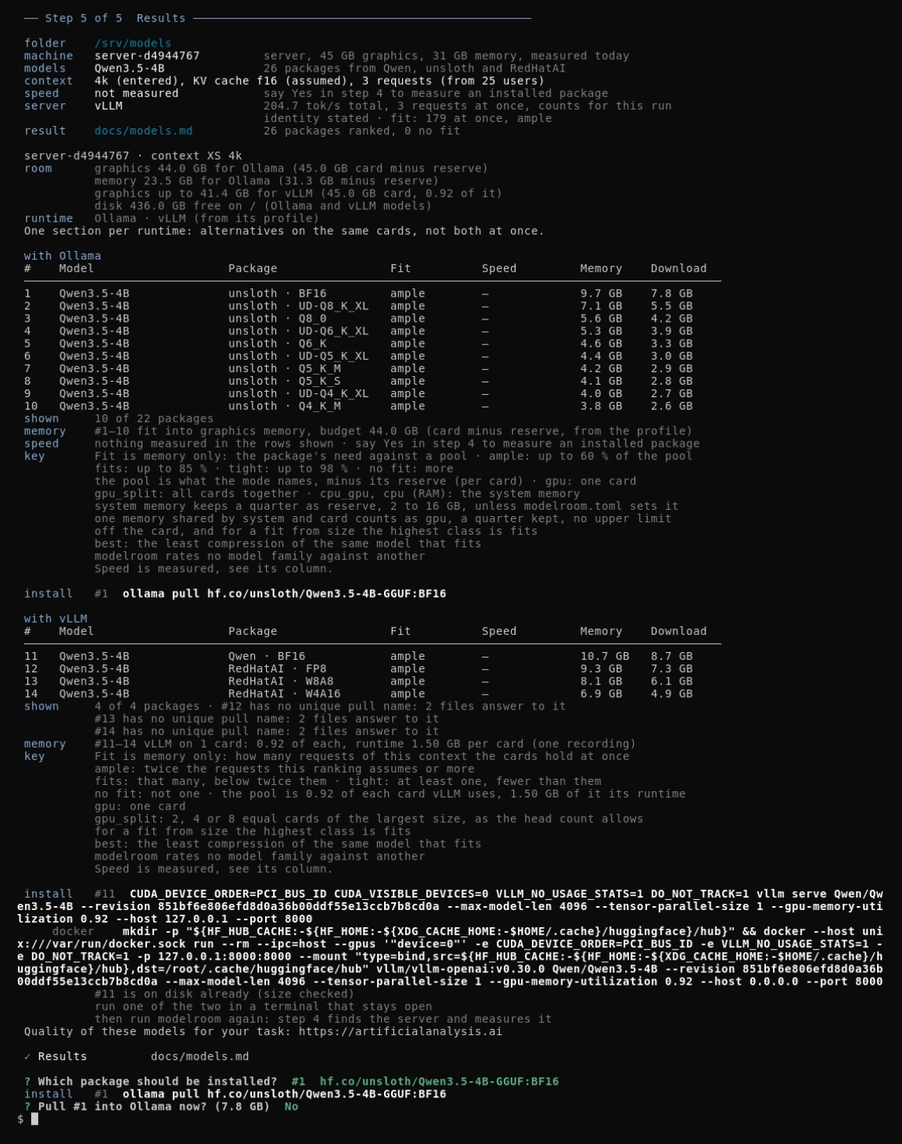
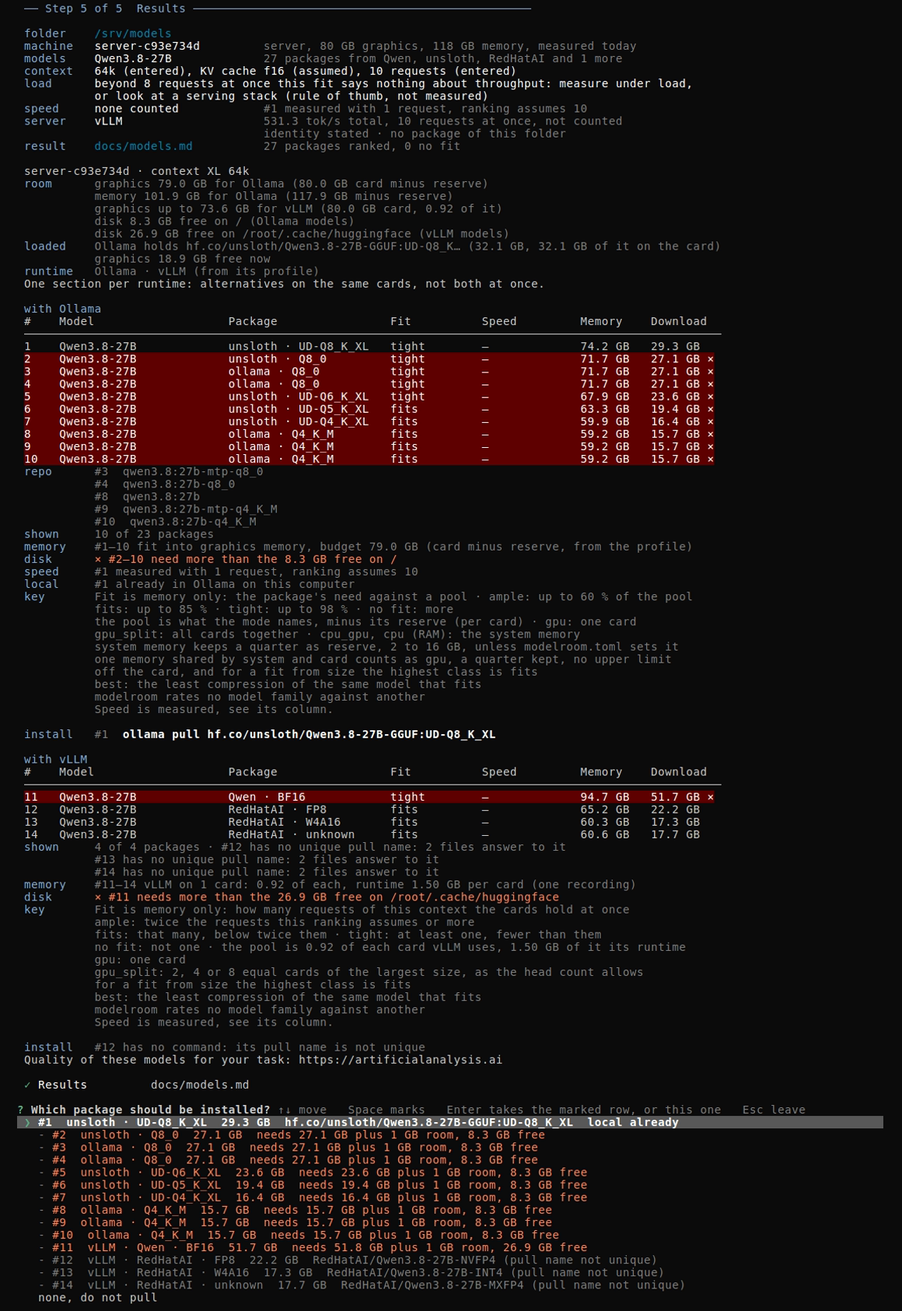
docs: README pictures taken again on 1.2.0, known limits named, no 1.2.1 promised
The pictures of README.md come from a guided run of 1.2.0 on a rented A100 80 GB instance
(Ollama 0.40.4, vLLM 0.31.0 serving RedHatAI/Qwen3.8-27B-INT4 at 64k): real pull of 29.3 GB,
both measurements (Ollama 37.6 tok/s, vLLM 531.3 tok/s total, shown and not counted), red
over-disk rows, a machine entered by hand, and Kolibri-1 with no fit. 22 files under
docs/screenshots/, 12 of them new (6-people, 6-measure, 8b-pulled, 11-kolibri and shorter
cuts of the long screens); links point to v1.2.0.

CHANGELOG 1.2.0 gets a section Known limits: the shared budget of 150 Hub requests that a broad
search word spends in the search, and a vLLM number that is shown but not counted where the
snapshot holds two tensor packages of the served repository. Both have a way around them;
neither is scheduled. README names them as limits, and What comes next keeps two points:
unified memory measured, and the catalog's successors as described on main.

Codex review r1-r4 (gpt-6-astra), r4 APPROVED; pytest -k readme/language/document: 152 passed.

Changed region(s): [[0.0, 0.0, 0.9931, 1.0]]

diff --git a/README.md b/README.md
@@ -116,32 +116,40 @@ column is what the profile says: `server (entered)` means the run supplied the c
 | a rented instance at Seeweb (Frosinone) | server (entered) | 1 x NVIDIA L40S, 44.99 GiB | 31.27 GiB | 2026-10-08 | `SELFTEST: OK` | 122.8 tok/s |
 | a rented instance at Exoscale (Frankfurt) | server (entered) | 1 x NVIDIA RTX PRO 6000 Blackwell Server Edition, 95.59 GiB | 117.90 GiB | 2026-10-12 | `SELFTEST: OK` | 216.6 tok/s |
 | a rented instance at Exoscale (Frankfurt) | server (entered) | 4 x NVIDIA RTX PRO 6000 Blackwell Server Edition, 95.59 GiB each | 472.14 GiB | 2026-10-13 | `SELFTEST: OK` | 207.2 tok/s |
+| a rented instance at Verda (Helsinki) | server (entered) | 1 x NVIDIA A100-SXM4-80GB, 80.00 GiB | 117.89 GiB | 2026-10-15 | `SELFTEST: OK` | 136.9 tok/s |
 
 ## The guided run
 
-The pictures come from three runs on a rented server at Seeweb with one NVIDIA L40S graphics card
-(44.99 GiB) and 31 GiB of memory. The folder is `/srv/models`, chosen for the pictures; any
-folder does.
+The pictures come from runs on 2026-10-15 on a rented server at Verda with one NVIDIA
+A100-SXM4-80GB graphics card (80.00 GiB) and 118 GiB of memory. The folder is `/srv/models`,
+chosen for the pictures; any folder does.
 
-Ollama 0.40.1 runs there without a package of the model the run looks for. A vLLM server serves
-`Qwen/Qwen3.5-4B` at context 4096. The pictures were taken on Linux; for Windows and macOS, see
-"vLLM".
+Ollama 0.40.4 runs there. A vLLM server serves `RedHatAI/Qwen3.8-27B-INT4` at context 65536. The
+pictures were taken on Linux; for Windows and macOS, see "vLLM".
 
-The first picture is from the initial run in a fresh folder. Pictures 2 to 8 are from the second
-run. The last picture shows a separate run with an empty search word in the same folder. Your
-numbers, and so the fit of every package, will differ.
+The pictures come from several runs:
+
+- the start screen and the pull at the end of step 5 are from the first run in a fresh folder,
+  with the search word `qwen 3.8`. That run pulled one package into Ollama;
+- the three pictures of step 2 are from a run of their own in another fresh folder, with the
+  broad word `qwen`;
+- the other pictures of steps 1 to 5 are from the second run in `/srv/models`, again with
+  `qwen 3.8`. It measured the pulled package and the vLLM server;
+- the pictures under "Other ways to run" are from separate runs on the same machine.
+
+Your numbers, and so the fit of every package, will differ.
 
 ### Start
 
-![The start screen: the mark, four facts about this folder, the daemon, the vLLM server and this machine, and the first question](https://raw.githubusercontent.com/jm-vis/modelroom/v0.2.0/docs/screenshots/1-start.png)
+![The start screen: the mark, four facts (no folder chosen yet, Ollama 0.40.4 with 0 models, the vLLM server at context 65536 and this machine, not measured yet), and the first question](https://raw.githubusercontent.com/jm-vis/modelroom/v1.2.0/docs/screenshots/1-start.png)
 
 Start shows what the run knows before it asks anything.
 
 **What you see.** Four facts before the first question:
 
 - the **folder**: none chosen yet;
-- the local **daemon**: Ollama 0.40.1 is reachable, with one model;
-- the vLLM **server**: context 4096, and the model it states it serves;
+- the local **daemon**: Ollama 0.40.4 is reachable, with no model yet;
+- the vLLM **server**: context 65536, and the model it states it serves;
 - this **machine**: its name, and that no measurement is stored in this folder yet.
 
 A running LM Studio server adds a row of its own under them, here for one loaded instance
@@ -150,7 +158,7 @@ the folder the first one chose and was not asked again. The first question of st
 
 ### Step 1, Configuration
 
-![Step 1: which machines the result covers, with this machine's stored measurement as the first row](https://raw.githubusercontent.com/jm-vis/modelroom/v0.2.0/docs/screenshots/2-machines.png)
+![Step 1: which machines the result covers, with this machine's stored measurement of 2026-10-15 as the first row, nothing marked](https://raw.githubusercontent.com/jm-vis/modelroom/v1.2.0/docs/screenshots/2-machines.png)
 
 Step 1 decides where the results live and which machines the result covers.
 
@@ -167,7 +175,7 @@ covers exactly the machines you marked in this run. The list has these rows:
 
 | Row | What it does |
 |---|---|
-| **this machine**, with its profile as the first row, `this machine (server-d4944767, as measured 2026-10-08)` | Where this computer was measured in this folder before. The name is the one the result shows for it. Enter alone keeps the profile and measures nothing. |
+| **this machine**, with its profile as the first row, `this machine (server-c93e734d, as measured 2026-10-15)` | Where this computer was measured in this folder before. The name is the one the result shows for it. Enter alone keeps the profile and measures nothing. |
 | **this machine** with `measure now` or `measure again` | Measures this computer right here, once the question is answered. `measure again` is the row under the profile. |
 | a **profile file**, `import a profile file` | Takes in a profile measured on another computer. |
 | a machine **entered by hand** | Opens the questions listed below. |
@@ -202,12 +210,23 @@ says `set by environment`. The shared folder is read and written like any local 
 operating system mounted there, network shares and cloud sync folders included.
 
 **What you see.** In the picture the first row reuses the profile measured in the first run, and
-the start screen sums it up (`server, one graphics card, 45 GB, 31 GB memory`). The gray line
+the start screen sums it up (`server, one graphics card, 80 GB, 118 GB memory`). The gray line
 above the question says where another computer's profile comes in.
 
 A machine entered by hand has a place in the result of its own, next to the machines you
 measured. It says `(entered)` wherever its name stands. Every number of such a machine is
 computed, none measured.
+
+![A run for a machine entered by hand, a server with 32 GiB of memory and a graphics card of 8 GiB: the answers of steps 1 to 4 and the ranking of step 5 with fits (RAM) and tight (RAM)](https://raw.githubusercontent.com/jm-vis/modelroom/v1.2.0/docs/screenshots/10-no-fit-short.png)
+
+In the picture a run in a folder of its own, `/srv/models-nofit`, covers only a machine entered by
+hand: a server with 32 GiB of memory and a graphics card of 8 GiB, named `server-a2b73740
+(entered)`. With `qwen 3.8 27b`, 1 at once and L (32k), step 5 ranks 14 packages, and 9 have no
+fit. The rows that fit need system memory (`tight (RAM)`, `fits (RAM)`; budget 24.0 GB, the
+memory minus its reserve), and the speed stays `–`, since such a machine is never measured. The
+install line names the computer: `#1 on server-a2b73740 (entered)  ollama pull
+hf.co/unsloth/Qwen3.8-27B-GGUF:UD-Q4_K_XL`. The whole screen:
+[10-no-fit.png](https://raw.githubusercontent.com/jm-vis/modelroom/v1.2.0/docs/screenshots/10-no-fit.png).
 
 **What is written.** The folder you chose holds `modelroom.toml`, `docs` and `state`. A machine
 that is measured, imported or entered gets its profile in `state/hardware/`.
@@ -320,9 +339,9 @@ folders").
 
 Step 2 decides which models and packages the run looks at.
 
-![Step 2: the search word](https://raw.githubusercontent.com/jm-vis/modelroom/v0.2.0/docs/screenshots/3-search.png)
+![Step 2: the search word, here qwen, under the answers of step 1 and the graphics card the measurement found](https://raw.githubusercontent.com/jm-vis/modelroom/v1.2.0/docs/screenshots/3-search.png)
 
-**What you choose.** What you are looking for; in the picture `qwen 3.5 4b`. There are four ways
+**What you choose.** What you are looking for; in the picture the broad word `qwen`. There are four ways
 to answer, and none of them has to be the exact spelling of anything:
 
 | What you type | What happens |
@@ -335,7 +354,7 @@ to answer, and none of them has to be the exact spelling of anything:
 **What you see.** A word close to something the catalog knows that finds nothing to pick (`qwn`)
 ends in a short list of what you may have meant. Picking one searches again.
 
-![Step 2: the owner filter, yes or no](https://raw.githubusercontent.com/jm-vis/modelroom/v0.2.0/docs/screenshots/4-filter.png)
+![Step 2: the owner filter, yes or no, with Yes under the pointer](https://raw.githubusercontent.com/jm-vis/modelroom/v1.2.0/docs/screenshots/4-filter.png)
 
 **What you choose.** The owner filter, yes or no. **Yes** (the default) keeps the list to the
 publisher of what you searched for and the packagers configured for the folder.
@@ -350,7 +369,9 @@ owns them.
 **What you see.** With **No**, a model of a publisher the catalog does not know can be picked as
 well (see "Publishers the search resolves").
 
-![Step 2: the list of models, one row per model that can be picked](https://raw.githubusercontent.com/jm-vis/modelroom/v0.2.0/docs/screenshots/5-models.png)
+![Step 2: the list of models for qwen, 200 repositories and 74 models to pick, with Qwen3.8-27B marked in the first row; the first 20 rows](https://raw.githubusercontent.com/jm-vis/modelroom/v1.2.0/docs/screenshots/5-models-short.png)
+
+The whole screen, with all 74 rows: [5-models.png](https://raw.githubusercontent.com/jm-vis/modelroom/v1.2.0/docs/screenshots/5-models.png).
 
 **What you choose.** One or more models from the list, one row per model that can really be
 picked. Mark the rows you want, or take the row under the pointer.
@@ -375,9 +396,16 @@ Where the catalog is silent, the highest version of a family and variant is `lat
 lower one `legacy*` (`state/search.json` names the successor). It compares only what the search
 and the catalog know.
 
-In the picture the search found 8 repositories and one model to pick, `Qwen3.5-4B`, and it is
-marked. It shows `fits` at the folder's 4k, `legacy*` because a higher version of the family is
-known, `unsloth +2` and `qwen3.5:4b`.
+In the picture the broad word `qwen` found 200 repositories, 74 of them models to pick, and the
+gray line says `a more specific word shortens the list`. The first row, `Qwen3.8-27B`, is marked.
+It shows `fits` at 32k and one request (the defaults of a fresh folder), `latest`, `unsloth +3`,
+`10.5M` downloads and `qwen3.8:27b`. Further down the list holds `legacy*`, `–`, `fits (RAM)`,
+`no_fit` and `unknown` rows.
+
+The run was left at this list. In 1.2.0 the search and the fetch of a guided run share one
+budget of Hub requests, and a word this broad spends it in the search, so the fetch would end
+without a package (see `CHANGELOG.md`, 1.2.0, "Known limits"). The other pictures use `qwen 3.8`: 26
+repositories, 3 models to pick, and the fetch works.
 
 **A model whose publisher offers no GGUF.** The word or the repository you typed can name a model of the
 catalog that no listed packager converts, or that only an account nobody listed converts. With a vLLM
@@ -403,7 +431,7 @@ the first listed packager that has it. It records them.
 
 ### Step 3, Context
 
-![Step 3: the context scale from XS to XXL, with how many of the fetched packages fit at each level](https://raw.githubusercontent.com/jm-vis/modelroom/v0.2.0/docs/screenshots/6-context.png)
+![Step 3: how many people work with it at the same time, with 10, a department, under the pointer and the rule of thumb for a daily head count below](https://raw.githubusercontent.com/jm-vis/modelroom/v1.2.0/docs/screenshots/6-people.png)
 
 Step 3 decides how many people work with the model at the same time and how much text it handles
 at once.
@@ -419,6 +447,8 @@ becomes requests by a rule of thumb, 1 in 10 at the same moment, so 250 people a
 The rule is not measured, and the gray line under the list says so. Every request holds its own
 KV cache in memory. From about 10 at once a serving stack such as vLLM is the runtime to look at.
 
+![Step 3: the context scale from XS to XXL, with how many of the 27 fetched packages fit at each level, XL under the pointer](https://raw.githubusercontent.com/jm-vis/modelroom/v1.2.0/docs/screenshots/6-context.png)
+
 Then how much text a model should handle at once, as a scale from XS to XXL. **L** (32k, a report
 or a long contract) is the default for a new folder. A number of tokens can be typed instead.
 
@@ -431,9 +461,9 @@ fit this computer at that context and for those requests. The memory a model nee
 text it holds. A package whose installation the catalog blocks (see "Which GGUF packages are offered")
 stays in the total and does not count as fitting, as in step 5.
 
-The picture shows the question of an earlier version, which asked for a daily head count: the
-folder offers what the first run chose, 25 people (3 requests), and **XS** (4k, the context the
-vLLM server runs at). On the L40S all 26 fetched packages fit at every level.
+In the pictures the folder offers what the first run chose: `10`, which the list calls `a
+department; consider a serving stack such as vLLM`, and **XL** (64k, the context the vLLM server
+runs at). On the A100 all 27 fetched packages fit from XS to XL, and 16 of 27 at XXL (128k).
 
 **What is written.** A folder keeps the answer it was given and offers it next time. It gets a line
 of its own when the number is none of the five or was derived from a daily head count. It keeps the
@@ -441,7 +471,7 @@ level it chose last time too.
 
 ### Step 4, Measurement
 
-![Step 4: the vLLM server measured with 3 requests at once, and the fit computed for it](https://raw.githubusercontent.com/jm-vis/modelroom/v0.2.0/docs/screenshots/7-measurement.png)
+![Step 4: what each server has, and the list of what to measure, with the pulled Ollama package and the vLLM server both marked](https://raw.githubusercontent.com/jm-vis/modelroom/v1.2.0/docs/screenshots/6-measure.png)
 
 Step 4 decides whether a local server is measured now.
 
@@ -468,14 +498,26 @@ When the ranking assumes more than one request, a measured row names why its spe
 there. An invalid run (see **What is written.**) gets a second line that says how far it got
 (`run 1 ended after 2 of 128 tokens`) and what the protocol counts.
 
-In the picture the list holds only the vLLM server, as the setup above says. It states which model
-it serves, but not which revision (`revision unknown (not stated)`).
+In the picture the list holds two rows, and both are marked: the package the first run pulled,
+`hf.co/unsloth/Qwen3.8-27B-GGUF:UD-Q8_K_XL` (29.30 GiB), and the vLLM server at context 64k with
+10 requests at once. The server states which model it serves, but not which revision (`revision
+unknown (not stated)`).
 
-One warm-up request, then three batches of 3 requests of 128 tokens each give `204.7 tok/s total`,
-68.5 per request. The lines under it are computed, not measured.
+![Step 4: the Ollama package measured in three runs at 37.6 tok/s, the vLLM server at 531.3 tok/s total, and why the vLLM number does not count](https://raw.githubusercontent.com/jm-vis/modelroom/v1.2.0/docs/screenshots/7-measurement-short.png)
 
-vLLM takes 0.92 of the one card of 44.99 GiB. That share holds the weights (8.68 GiB), its runtime
-(1.50 GiB) and 179 requests of context 4k at once.
+The whole screen: [7-measurement.png](https://raw.githubusercontent.com/jm-vis/modelroom/v1.2.0/docs/screenshots/7-measurement.png).
+
+Ollama runs one warm-up request and three runs: `37.6 tok/s (37.3–38.3), context 64k, protocol
+v2`. vLLM runs one warm-up request, then three batches of 10 requests of 128 tokens each:
+`531.3 tok/s total (530.8–531.6)`, `53.2 tok/s` per request.
+
+The vLLM number does not count here. Before the runs the step says so (`the number will not
+count: the server serves Qwen3.8-27B-INT4, this run chose Qwen3.8-27B`), after them it names the
+reason: `the server names none of the 2 tensor packages of RedHatAI/Qwen3.8-27B-INT4`. The
+folder's snapshot holds two tensor packages of that repository at the same revision, so the run
+cannot match the server to one package and falls back to the repository's name; the number is
+shown, not counted. Why the snapshot holds two is open; this is a known limit of 1.2.0 (see
+`CHANGELOG.md`, 1.2.0, "Known limits"). The balance reads `1 of 1 measured · vLLM ran, not counted`.
 
 **What is written.**
 
@@ -484,7 +526,7 @@ vLLM takes 0.92 of the one card of 44.99 GiB. That share holds the weights (8.68
   same context.
 - Measurements stored under protocol v1 keep counting and are shown as such (`protocol v1`).
 - An LM Studio measurement is not saved and not ranked.
-- In modelroom 0.2.0 a vLLM number is shown for the current run only. It is saved nowhere and
+- Since modelroom 0.2.0 a vLLM number is shown for the current run only. It is saved nowhere and
   assigned to no package (`identity stated by the server; not ranked, nothing written`).
 - A run that ends before 128 tokens is invalid, and the package stays without a speed.
 - An Ollama measurement always runs one request. When the ranking assumes more, the step says
@@ -492,7 +534,11 @@ vLLM takes 0.92 of the one card of 44.99 GiB. That share holds the weights (8.68
 
 ### Step 5, Results
 
-![Step 5: the card of the run, one ranking table per runtime and the notes under them](https://raw.githubusercontent.com/jm-vis/modelroom/v0.2.0/docs/screenshots/8-results.png)
+![Step 5: the card of the run, the room and loaded rows, and the Ollama table, rows 2 to 10 in red with a cross behind their download](https://raw.githubusercontent.com/jm-vis/modelroom/v1.2.0/docs/screenshots/8-results-short-ollama.png)
+
+![Step 5: the vLLM table, row 11 in red, and the question which package should be installed, with row 1 local already and the locked rows saying what they need](https://raw.githubusercontent.com/jm-vis/modelroom/v1.2.0/docs/screenshots/8-results-short-vllm.png)
+
+The whole screen: [8-results.png](https://raw.githubusercontent.com/jm-vis/modelroom/v1.2.0/docs/screenshots/8-results.png).
 
 Step 5 decides which package is installed here or handed over to another computer.
 
@@ -509,12 +555,19 @@ Some rows are locked:
   offered"); naming it in an answer file does not pass the lock, and nothing is downloaded.
 
 The command of the choice follows. Then **Pull #1 into Ollama now?** asks, with the size of the
-package (7.8 GB in the picture). **Yes** pulls it into the daemon and shows the progress. **No**,
-the answer in the picture, leaves the command for you to run.
+package. **Yes** pulls it into the daemon and shows the progress. **No** leaves the command for you
+to run.
 
 Too little disk (see **What is written.**) says so and asks nothing. A row the daemon already
 has gets a note instead of the question. After the package has been installed, step 4 of a later
 run offers to measure it.
+
+![Step 5 of the first run: the tables with 37.9 GB free on the disk, #1 chosen, Pull #1 into Ollama now? (29.3 GB) answered Yes, and the line Pulled](https://raw.githubusercontent.com/jm-vis/modelroom/v1.2.0/docs/screenshots/8b-pulled-short.png)
+
+The first run chose #1, `unsloth · UD-Q8_K_XL`, answered **Yes** for its 29.3 GB, and ended with
+`✓ Pulled  hf.co/unsloth/Qwen3.8-27B-GGUF:UD-Q8_K_XL · 29.3 GB · say Yes in step 4 of the next run
+to measure it`. The second run measured it there. The whole screen of the first run:
+[8b-pulled.png](https://raw.githubusercontent.com/jm-vis/modelroom/v1.2.0/docs/screenshots/8b-pulled.png).
 
 Where the table of another computer has a package of its own, step 5 also asks, afterwards:
 **Which package should go onto another computer?** It asks even when the run only ever imported
@@ -524,15 +577,21 @@ The question lists the rows of every other chosen machine under its own heading.
 hands over the command for that computer (see "Another computer"). So a computer reached only by
 copy-paste, not by this run's own daemon, still gets its package.
 
+![Which package should go onto another computer? The rows #1 to #10 of the machine entered by hand under its name, #6 locked as pull name not unique, and none, do not pull](https://raw.githubusercontent.com/jm-vis/modelroom/v1.2.0/docs/screenshots/10-no-fit-question.png)
+
+In the picture, from the run with the machine entered by hand (see step 1), the list holds its
+rows #1 to #10 under `server-a2b73740`; #6 is locked (`pull name not unique`), and `none, do not
+pull` ends the list.
+
 **What you see.**
 
 | Part | What it shows |
 |---|---|
-| The card | The card of the whole run: folder, machine, models, context, speed, and where the result went. In the picture the run chose `Qwen3.5-4B`, 26 packages from Qwen, unsloth and RedHatAI, all ranked, none without a fit. |
-| The context row | The whole scenario: the context, the KV cache and the requests with where they came from (`3 requests (from 25 users)`). Beyond eight requests a `load` row adds that the fit says nothing about throughput. |
-| The speed row | No Ollama package was measured in the picture (`speed  not measured`). The vLLM server's number stands in the **server** row instead: `204.7 tok/s total, 3 requests at once, counts for this run`. Under it stands the fit computed for it (`179 at once, ample`). |
+| The card | The card of the whole run: folder, machine, models, context, speed, and where the result went. In the picture the run chose `Qwen3.8-27B`, 27 packages from Qwen, unsloth, RedHatAI and 1 more, all ranked, none without a fit. |
+| The context row | The whole scenario: the context, the KV cache and the requests with where they came from (`10 requests (entered)`). Beyond eight requests a `load` row adds that the fit says nothing about throughput, as in the picture. |
+| The speed row | In the picture `speed  none counted`: `#1 measured with 1 request, ranking assumes 10`. The vLLM server's number stands in the **server** row: `531.3 tok/s total, 10 requests at once, not counted` (see "Step 4, Measurement"). |
 | The ranking | The ranking for this computer at the chosen context, one section per runtime (`with Ollama`, `with vLLM`: alternatives on the same card, not both at once). A row gives rank, model, package (packager and quantization), fit, measured speed and memory need. |
-| The speed cells | Every one reads `–`. For the Ollama rows nothing was measured. For the vLLM rows, see **What is written.** in "Step 4, Measurement". The measured total appears only on the run card. |
+| The speed cells | Every one reads `–`. The one Ollama measurement ran one request, and the ranking assumes 10. For the vLLM rows, see **What is written.** in "Step 4, Measurement". The measured total appears only on the run card. |
 | The order | Graphics memory ranks before system memory. The first row is the largest model that fits, in the least compression of it that fits. Of two packages of one model that both fit, the less compressed one ranks first. A measurement only decides between two builds of the same compression. modelroom rates no model family against another. |
 | The rows shown | With several models the table shows one row per model, its first-ranked package. A package you measured here that the rule leaves out is added at the end with its place. The result shows only the models this run chose; a later `modelroom render` shows the whole folder again. |
 | The **install** line | The command for the first row, ready to paste. Rows that look alike name their repository under the table. |
@@ -541,9 +600,19 @@ copy-paste, not by this run's own daemon, still gets its package.
 | A row that does not fit the disk | A row whose download is too large for the free disk (the rule is under **What is written.**) stays where the fit puts it. It lies on red and carries ` ×` behind its download (also without color and in `docs/models.md`). A red **disk** line under **memory** names those rows. The **install** line then takes the first row that also fits the disk. Failing that, it says in red that no package fits and space must be freed first. |
 | A computer that is not this one | Imported, entered by hand, or another profile of the folder: it says so on the card and in its table head. It gets its command to copy there, or over SSH the pull there. A row the SSH computer already has ends `local already` in the list below. |
 
+In the picture the pull of the first run left 8.3 GB free on `/`. Rows #2 to #10 of the Ollama
+table lie on red with ` ×` behind their download, and the **disk** line names them: `× #2–10 need
+more than the 8.3 GB free on /`. Row #1 is in Ollama already (`local  #1 already in Ollama on this
+computer`), and the **install** line names it. The **loaded** row says that Ollama holds
+it on the card (32.1 GB, `graphics 18.9 GB free now`). In the vLLM table #11, `Qwen · BF16` with
+51.7 GB, needs more than the 26.9 GB free on the Hugging Face cache; #12 to #14 have no command,
+because two files answer to each pull name (`install  #12 has no command: its pull name is not
+unique`). In the question #1 says `local already`, the locked rows say what they need (`needs 27.1
+GB plus 1 GB room, 8.3 GB free`) or `pull name not unique`, and `none, do not pull` ends the list.
+
 The notes under the tables say:
 
-- what is **shown** (10 of 22 for Ollama, 4 of 4 for vLLM);
+- what is **shown** (10 of 23 for Ollama, 4 of 4 for vLLM);
 - which rows fit into graphics **memory** and which need system memory;
 - which rows have their fit computed from the package size as their **basis**, not from the
   architecture (the line appears only for such rows);
@@ -562,14 +631,37 @@ Face cache; download plus 1 GB must fit its free disk, rechecked beforehand.
 
 ### Nothing in mind
 
-![Step 2 with an empty search word: the catalog's current models, one page each, ranked by fit](https://raw.githubusercontent.com/jm-vis/modelroom/v0.2.0/docs/screenshots/9-anything.png)
+![Step 2 with an empty search word: the catalog's current models, one page each, ranked by fit, gpt-oss-120b tight in the first row](https://raw.githubusercontent.com/jm-vis/modelroom/v1.2.0/docs/screenshots/9-anything.png)
 
 The empty search word, the last row of the table in "Step 2, Packages", looks up one page for each
 current model of the shipped catalog. They are listed by the rule of the rows there.
 
-In the picture the run searched for the 22 current models of the catalog and found 214
-repositories, 35 of them models to pick. On the L40S everything from 32B down `fits`, the two
-models of about 120B are `no_fit`, and two rows whose size the list does not know stay `unknown`.
+The picture is from an earlier run on the same machine that day, with other answers: 3 requests
+at once, XS (4k), and a vLLM server that served `Qwen/Qwen3.5-4B` at context 4096. The run searched
+for the 23 current models of the catalog and found 214 repositories, 35 of them models to pick. On
+the A100 the two models of about 120B (`gpt-oss-120b`, `Mistral-Small-4-119B…`) are `tight`,
+everything from 32B down `fits`, and two rows whose size the list does not know stay `unknown`.
+
+### A model that does not fit
+
+![A run with the word kolibri: 5 repositories, Kolibri-1 chosen for 10 at once and XL 64k, and step 5 with 0 packages ranked, 1 no fit](https://raw.githubusercontent.com/jm-vis/modelroom/v1.2.0/docs/screenshots/11-kolibri-short.png)
+
+A model can be found and fetched and still fit nowhere. In the picture the word `kolibri` finds 5
+repositories, 2 of them models to pick; the publisher Aleph-Alpha has no GGUF repository for this
+search. The run chose `Kolibri-1` for 10 at once and XL (64k), in `/srv/models`. Its one package
+is the publisher's FP8 build, and step 5 ends with `0 packages ranked, 1 no fit`. Under the table
+stand `no package of the configured base models is ranked here` and `shown  0 of 0 packages · 1 no
+fit (Aleph-Alpha FP8)`. The whole screen:
+[11-kolibri.png](https://raw.githubusercontent.com/jm-vis/modelroom/v1.2.0/docs/screenshots/11-kolibri.png).
+
+`docs/models.md` gives the reason: 73.43 GiB of FP8 weights, so vLLM holds not even one request at
+once on one card of 80.0 GiB, and 10 requests need about 164.9 GB. With one person and L (32k) the
+package stays `no_fit` as well.
+
+The folder still records what the catalog knows of the model. `docs/models.md` carries the setup
+note of its card (it names the package `aleph-alpha-inference` as required; the commands are
+templates without it) and the vLLM switches `--reasoning-parser kolibri1 --tool-call-parser
+kolibri1` from the catalog (see "vLLM", **Setup instructions of the model card**).
 
 ### Without a terminal
 

diff --git a/CHANGELOG.md b/CHANGELOG.md
@@ -58,11 +58,33 @@ release.
   cut list is continued, not read again). A row books the reserve only when it made progress; a list longer than the
   reserve carries (37 pages at the default) is the documented bound. A run whose budget cannot give each row four requests takes fewer rows.
 
+- The pictures of `README.md` were taken again on 1.2.0, on a rented Verda instance with one NVIDIA A100-SXM4-80GB
+  (80 GB), Ollama 0.40.4 and vLLM 0.31.0 serving `RedHatAI/Qwen3.8-27B-INT4`; the links point to `v1.2.0`. New in
+  `docs/screenshots/`: `6-people.png`, `6-measure.png`, `8b-pulled.png`, `11-kolibri.png`, and shorter cuts of the long screens
+  (`5-models-short.png`, `7-measurement-short.png`, `8-results-short-ollama.png`, `8-results-short-vllm.png`,
+  `8b-pulled-short.png`, `10-no-fit-short.png`, `10-no-fit-question.png`, `11-kolibri-short.png`). "Tested on" has a line
+  for that machine.
+
 ### Not taken from a card
 
 `--trust-remote-code` (it runs foreign code; the red line over the commands stays all modelroom says of it), paths,
 `--revision`, `--max-model-len`, `--tensor-parallel-size`, memory and GPU switches (modelroom computes those), environment
 variables and every other switch.
+
+### Known limits
+
+Both have a way around them, named below; neither is scheduled.
+
+- The guided run shares one budget of 150 Hub requests between search and fetch. A broad search word such as `qwen`
+  (200 repositories, 74 models) spends it in the search, and the fetch then ends with `the fetch ended with exit 1` and
+  no package. A more specific word (`qwen 3.8`) works; the list itself says `a more specific word shortens the list`.
+- Where the folder's snapshot holds two tensor packages of the repository a vLLM server serves (same revision, as for
+  `RedHatAI/Qwen3.8-27B-INT4`), the run cannot match the server to one package and falls back to the repository's name
+  (`match_served`, `not_counting_reason` in `guided_vllm.py`); the server's number is shown but not counted: `the server
+  names none of the 2 tensor packages of …`. The number stays on the screen (a vLLM number is saved nowhere since
+  0.2.0). It counts, as before, when the snapshot holds exactly one active, complete tensor package of the served
+  repository, that package's base model is one the run chose, and the server's context is the run's. Why the snapshot
+  holds two packages is open.
 
 ## [1.1.0] - 2026-10-14
 
